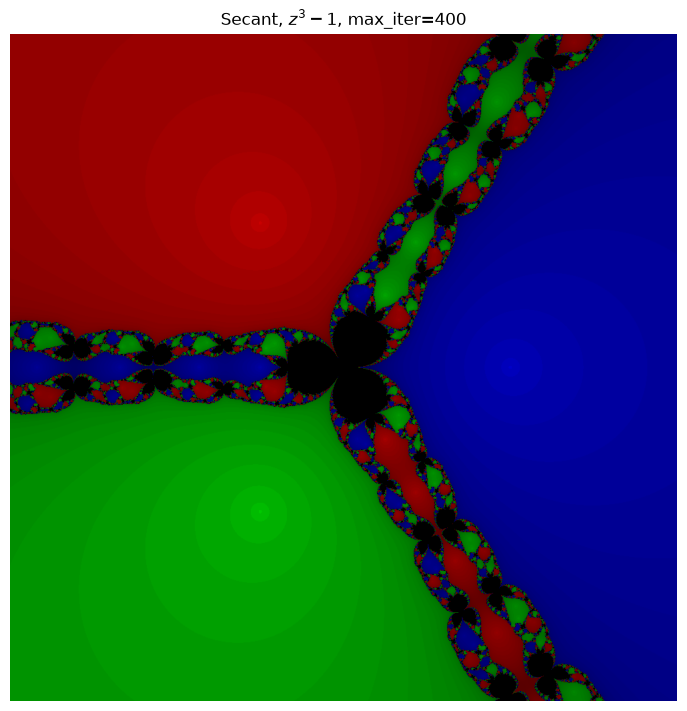
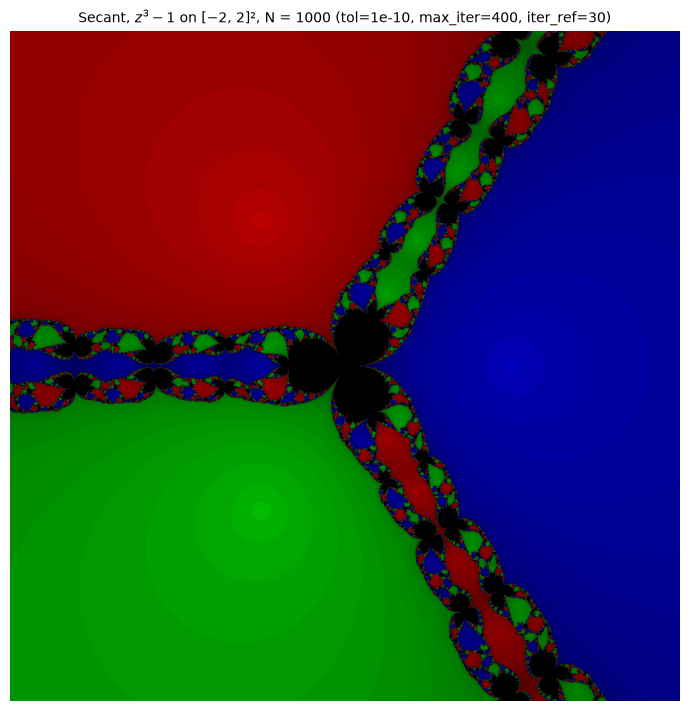
Fix remaining figure titles and e2_hist axis

Changed region(s): [[0.0, 0.0, 0.9782, 0.8973]]

diff --git a/experiments/e0_newton_z3.py b/experiments/e0_newton_z3.py
@@ -1,12 +1,15 @@
 from pathlib import Path
 
-import numpy as np
-from matplotlib.image import imsave
+import matplotlib
+
+matplotlib.use("Agg")
+import matplotlib.pyplot as plt  # noqa: E402
+import numpy as np  # noqa: E402
 
 PROJECT_ROOT = Path(__file__).resolve().parents[1]
 
 from nfractals.methods import newton_step  # noqa: E402
-from nfractals.plotting import plot_basins  # noqa: E402
+from nfractals.plotting import plot_basins, poly_latex  # noqa: E402
 from nfractals.polynomials import POLYNOMIALS, make_polynomial  # noqa: E402
 from nfractals.runner import CONVERGED, run_basins, single_point  # noqa: E402
 
@@ -23,13 +26,19 @@ root, iters, status = run_basins(
     z0, single_point(lambda z: newton_step(z, f, df)), roots, TOL, MAX_ITER
 )
 
-img = plot_basins(root, iters, status, len(roots))
+conv = status == CONVERGED
+iter_ref = np.percentile(iters[conv], 99)  # same default as plot_basins
+
+fig, ax = plt.subplots(figsize=(7, 7), constrained_layout=True)
+plot_basins(root, iters, status, len(roots), ax=ax, iter_ref=iter_ref)
+ax.set_title(f"Newton, {poly_latex('z^3 - 1')} on [−2, 2]², N = {N} "
+             f"(tol={TOL:g}, max_iter={MAX_ITER}, iter_ref={iter_ref:g})", fontsize=10)
 
 output = PROJECT_ROOT / "figures" / "e0_newton_z3.png"
-imsave(output, img, origin="lower")
-print(f"Image saved to {output}")
+fig.savefig(output, dpi=100, bbox_inches="tight")
+plt.close(fig)
+print(f"Figure saved to {output}")
 
-conv = status == CONVERGED
 print(f"Converged points: {conv.sum() / conv.size:.2%} of the total")
 for k, r in enumerate(roots):
     print(f"Root {k} ({r.real:+.4f}{r.imag:+.4f}j): {np.sum(root == k) / conv.sum():.2%}")

diff --git a/experiments/e2_cost.py b/experiments/e2_cost.py
@@ -20,6 +20,7 @@ from nfractals.methods import (  # noqa: E402
     secant_init,
     secant_step,
 )
+from nfractals.plotting import poly_latex  # noqa: E402
 from nfractals.polynomials import POLYNOMIALS, make_polynomial  # noqa: E402
 from nfractals.runner import CONVERGED, run_basins, single_point  # noqa: E402
 
@@ -104,6 +105,7 @@ for ax, (name, _, max_iter, *_), it in zip(axes, methods, iterations):
     ax.set_ylabel("points")
 axes[-1].set_xlabel("iterations to converge")
 axes[-1].set_xlim(0, it_max + 1)
+fig.suptitle(f"Iterations to converge, {poly_latex('z^3 - 1')} on [−2, 2]², N = {N} (tol={TOL:g})")
 
 output_fig = PROJECT_ROOT / "figures" / "e2_hist.png"
 fig.savefig(output_fig, dpi=100, bbox_inches="tight")

diff --git a/experiments/e3b_secant_diag.py b/experiments/e3b_secant_diag.py
@@ -76,7 +76,8 @@ if z.size:
 fig, ax = plt.subplots(figsize=(7, 7), constrained_layout=True)
 root, iters, st = res[400]
 plot_basins(root, iters, st, len(roots), ax=ax, iter_ref=ITER_REF)
-ax.set_title(f"Secant, {poly_latex('z^3 - 1')}, max_iter=400")
+ax.set_title(f"Secant, {poly_latex('z^3 - 1')} on [−2, 2]², N = {N} (tol={TOL:g}, max_iter=400, "
+             f"iter_ref={ITER_REF:g})", fontsize=10)
 output = PROJECT_ROOT / "figures" / "diag_secant.png"
 fig.savefig(output, dpi=100, bbox_inches="tight")
 print(f"Figure saved to {output}")
